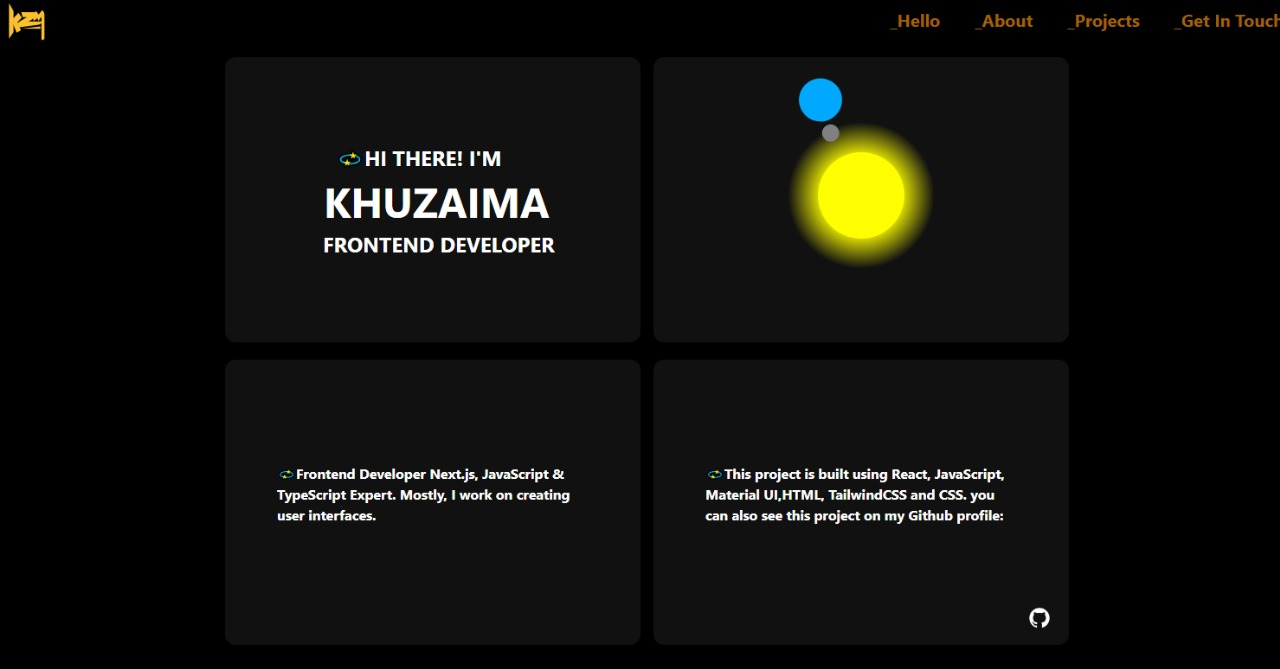
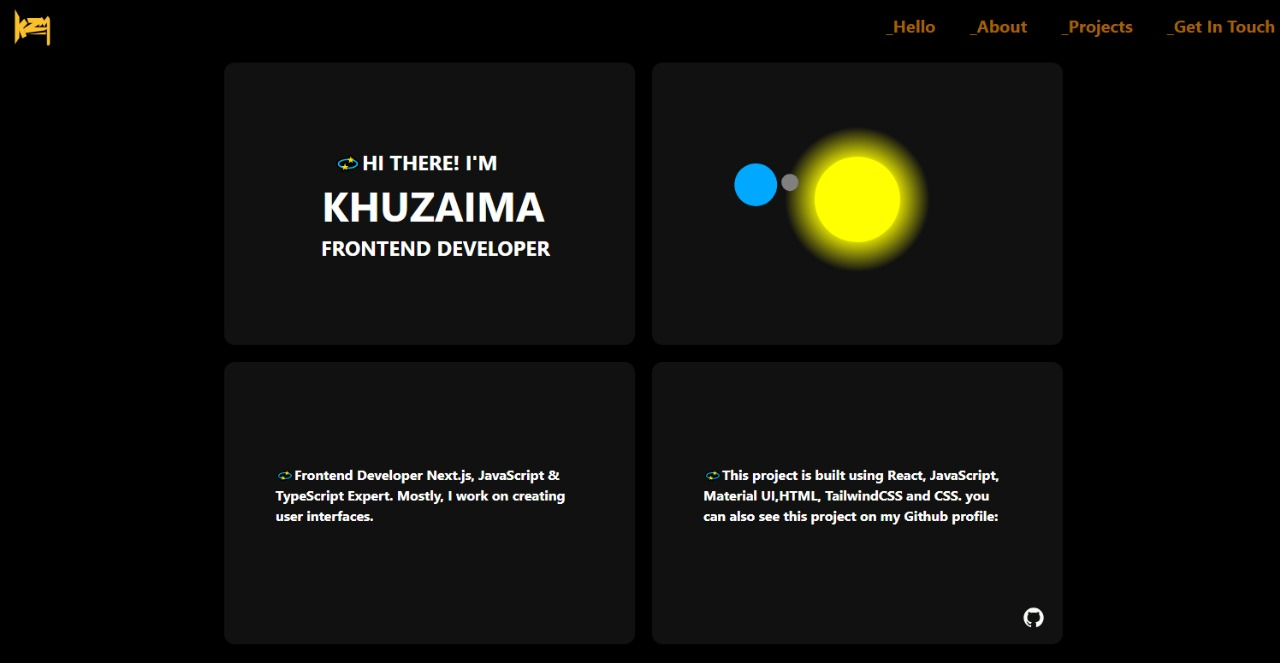
Complete project with complete documentation

diff --git a/src/pages/Home/index.jsx b/src/pages/Home/index.jsx
@@ -24,7 +24,7 @@ const Home = () => {
   </div>
   </div>
     <div class='section3'>
-    <div class="mt-[20px] pt-[10px] rounded-xl items-center space-x-4 font-bold md:mx-[5px] md:h-[330px] ml-10 h-[300px] w-[310px] md:w-[480px] bg-[#111] ">
+    <div class="mt-[20px] pt-[10px] rounded-xl items-center space-x-4 font-bold md:mx-[10px] md:h-[330px] ml-10 h-[300px] w-[310px] md:w-[480px] bg-[#111] ">
    <div class='solar-system'>
    <div class='sun justify-center align-middle text-center'>
     <div class='earth'>
@@ -34,7 +34,7 @@ const Home = () => {
     </div>
    </div>
     </div> 
-    <div class="mt-[20px] md:pt-[110px] align-middle justify-center rounded-xl items-center md:mx-[5px] space-x-4 font-bold h-[300px] ml-10 md:h-[330px] w-[310px] md:w-[480px] text-white bg-[#111] section4">
+    <div class="mt-[20px] md:pt-[110px] align-middle justify-center rounded-xl items-center md:mx-[10px] space-x-4 font-bold h-[300px] ml-10 md:h-[330px] w-[310px] md:w-[480px] text-white bg-[#111] section4">
     <h2 class='align-middle w-[350px] md:mx-[60px] md:mt-[10px] text-white text-1xl cursor-pointer transition ease-in-out delay-150 hover:text-yellow-600  hover:-translate-y-1 hover:scale-110 duration-300 ...'>
     💫This project is built using React, JavaScript, Material UI,HTML, TailwindCSS and CSS.
       you can also see this project on my Github profile:</h2><br/>

diff --git a/src/pages/Projects/index.jsx b/src/pages/Projects/index.jsx
@@ -12,6 +12,7 @@ const Projects = () => {
     <>
     <Navbar/>
     <div className='h-auto w-full md:h-[700px] md:flex justify-center mt-[50px]'>
+    <div className='centered-div4'> 
       <div className="text-zone">
        <p className='md:mx-[220px] align-middle text-white text-2xl cursor-pointer transition ease-in-out delay-150 hover:text-yellow-600  hover:-translate-y-1 hover:scale-110 hover:bg-black duration-300 ...'>
           Shining a light on some of my hard work and accomplishments
@@ -133,6 +134,7 @@ const Projects = () => {
               <img src={githubImage} alt="GitHub Icon" className="github-icon" />
             </a>
             </div> 
+            </div>
             </div>
           </div>
           </div>

diff --git a/src/pages/Projects/style.css b/src/pages/Projects/style.css
@@ -90,10 +90,23 @@
   margin-left: 25%;
   width: 100%;
 }
-
+.centered-div4 {
+  display: flex;
+  width: 100%;
+  justify-content: center; 
+  align-items: center; 
+  height: 100%; 
+  background-color: #000000;
+  margin-top: 8%;
+}
 @media screen and (max-width: 780px) {
   body{
     overflow-y: block;
+  }
+  .text-zone p{
+    display: flex;
+   
+    width: 320px;
   }
   .cards {
    
@@ -107,6 +120,10 @@
    width: 343px;
     margin-bottom: 8px;
     
+  }
+  .centered-div4 {
+    margin-left: 22px;
+    margin-top: 8%;
   }
 }
 

diff --git a/src/pages/Home/style.css b/src/pages/Home/style.css
@@ -64,7 +64,7 @@
      }
      .centered-div3 {
         display: grid;
-        margin-right: 20px;
+       margin-left: -19px;
     
       }
 }

diff --git a/README.md b/README.md
@@ -64,6 +64,9 @@ Crafting Connections through Code: Explore my journey, projects, and passions in
   ![HTML](https://img.shields.io/badge/HTML-5E5E5E?style=for-the-badge&logo=html5)
   ![CSS](https://img.shields.io/badge/CSS-1572B6?style=for-the-badge&logo=css3)
   ![JavaScript](https://img.shields.io/badge/JavaScript-F7DF1E?style=for-the-badge&logo=javascript)
+  ![Tailwind CSS](https://img.shields.io/badge/Tailwind%20CSS-38B2AC?style=for-the-badgelogo=tailwind-css)
+  ![Material-UI](https://img.shields.io/badge/Material--UI-0081CB?style=for-the-badge&logo=material-ui)
+
   <p align="right"><a href="#readme-top">back to top</a></p>
   
   ### Description
